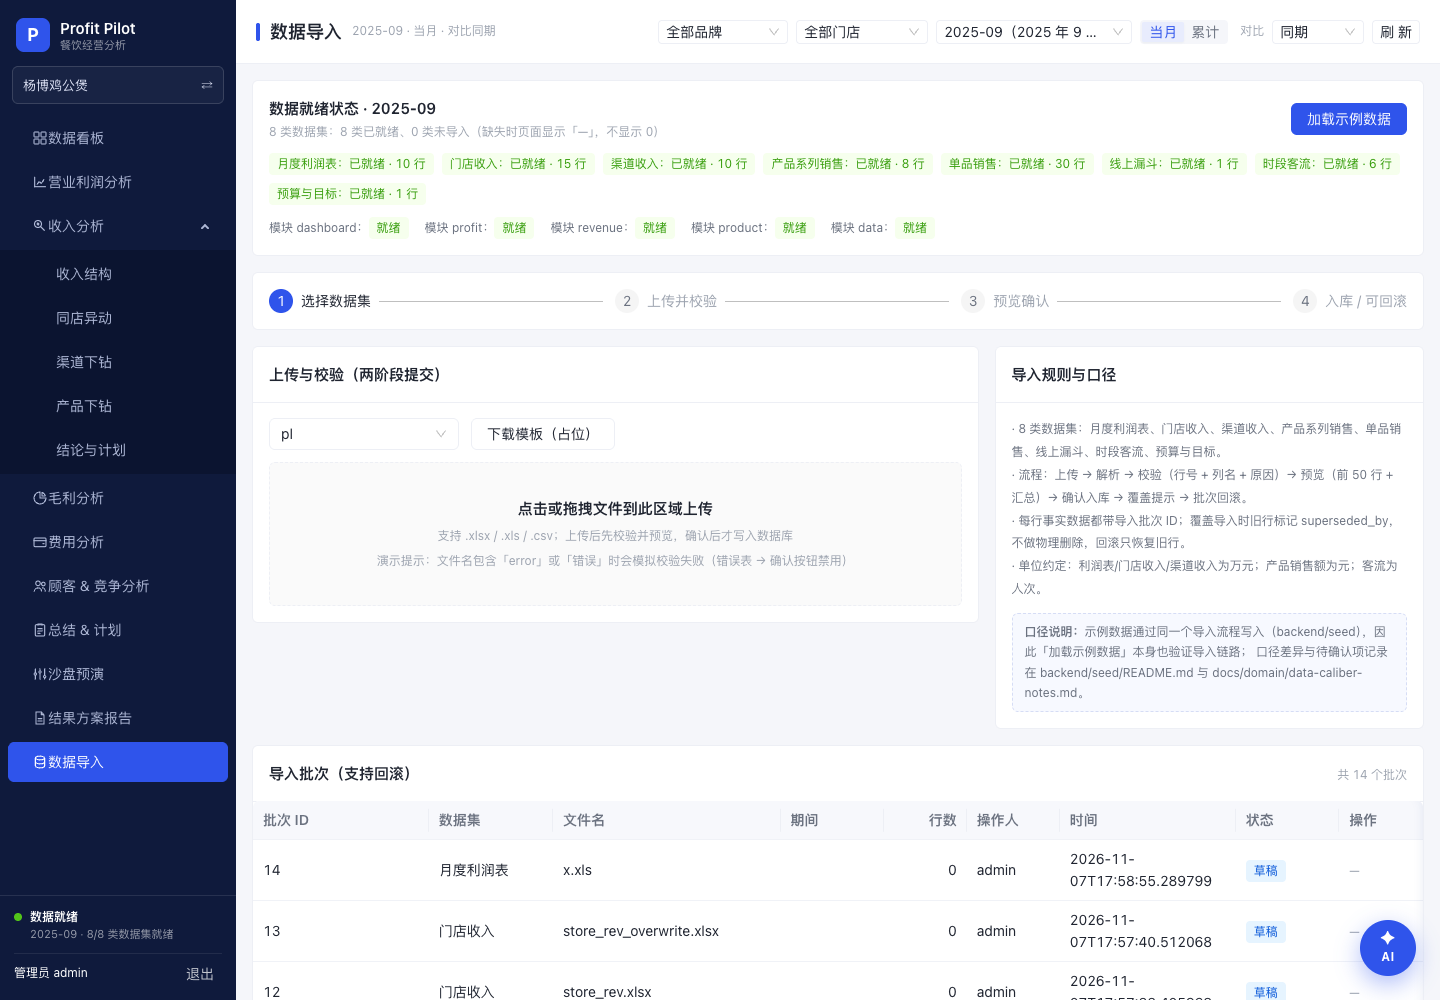
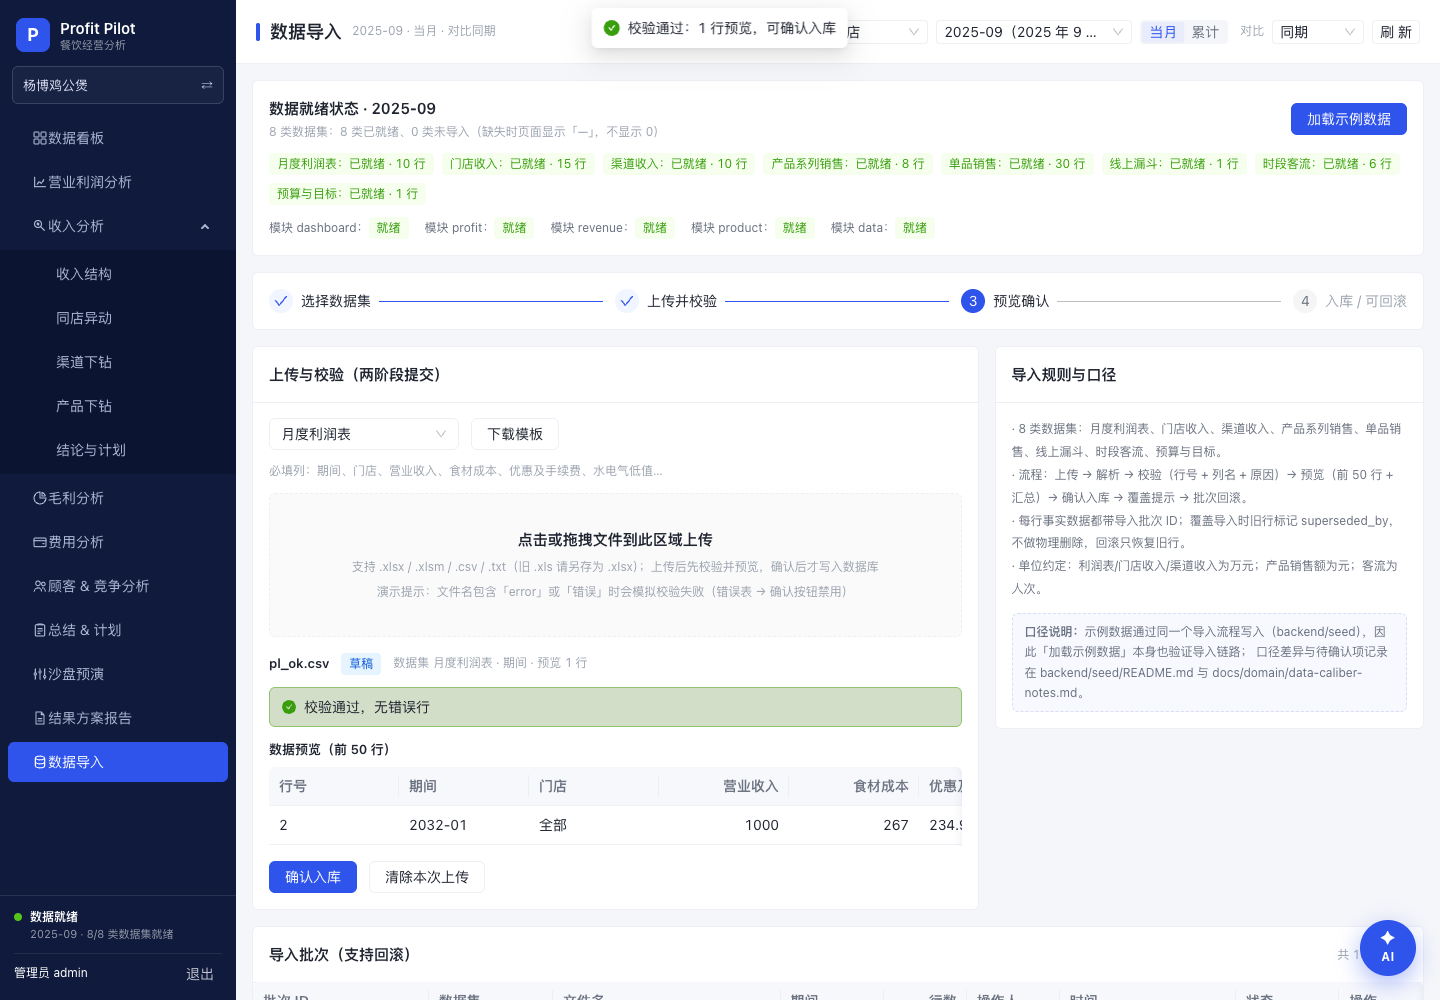
fix: 修复文档核对出的契约、导入与字段缺失问题
- 导入接口统一 {data} 包裹（templates/upload/commit/rollback），前端 hooks 与 mock 对齐；DataPage 数据集默认值改为接口首个 key，real 模式不再卡在 pl
- 数据导入页接通模板下载（fetch+blob，带登录 cookie），上传 accept 收敛为 .xlsx/.xlsm/.csv/.txt
- CSV 解析支持 GBK 回退，非 UTF-8 文件返回 400 而不是 5xx
- 未知 /api/* 统一 404 JSON，不再被 SPA fallback 吞成 200 HTML
- 渠道行补 same_rate；structure/same-store/conclusion 补 caliber_note；渠道详情补 note 别名
- 利润桥返回 base_marginal_contribution_rate，看板/利润页不再写死 41.87%
- 产品套餐为空时前端显示空态（sets 可空）；门店时段主因标题动态化；同店/渠道页去掉写死的 13 店与 857.03/142.97
- 收入页累计口径增加「二期开放」提示（避免当月数据被当成累计）
- 移除未使用的 pandas 依赖；新增 4 项回归测试（61 pytest）
- 同步 shared/api-contract.md 的导入契约

diff --git a/frontend/src/pages/revenue/ProductPage.tsx b/frontend/src/pages/revenue/ProductPage.tsx
@@ -206,14 +206,14 @@ export function ProductPage() {
   ]
   const topNegative = sortedSeries.filter((row) => row.diff < 0)
 
-  const setRows: SetCompareRow[] = [
+  const setRows: SetCompareRow[] = sets ? [
     { key: 'qty', name: '订单量（单）', base: sets.base.qty, current: sets.current.qty, diff: sets.current.qty - sets.base.qty, kind: 'count' },
     { key: 'amount', name: '销售额（元）', base: sets.base.amount, current: sets.current.amount, diff: sets.diff, kind: 'yuan' },
     { key: 'avg_price', name: '实收单价（元）', base: sets.base.avg_price, current: sets.current.avg_price, diff: sets.current.avg_price - sets.base.avg_price, kind: 'yuan' },
     { key: 'dish', name: '菜品收入（元）', base: sets.base.dish_revenue, current: sets.current.dish_revenue, diff: sets.current.dish_revenue - sets.base.dish_revenue, kind: 'yuan' },
     { key: 'discount', name: '菜品优惠（元）', base: sets.base.discount, current: sets.current.discount, diff: sets.current.discount - sets.base.discount, kind: 'yuan' },
     { key: 'discount_rate', name: '优惠率', base: sets.base.discount_rate, current: sets.current.discount_rate, diff: sets.current.discount_rate - sets.base.discount_rate, kind: 'pp' },
-  ]
+  ] : []
 
   return (
     <div className="page-stack">
@@ -318,31 +318,37 @@ export function ProductPage() {
         </Col>
 
         <Col xs={24} xl={13}>
-          <Card
-            title="套餐量价（套餐与单品分开统计）"
-            extra={<Tag color="blue">数据来源：Excel 表 4</Tag>}
-            styles={{ body: { padding: 0 } }}
-          >
-            <DataTable<SetCompareRow> columns={setColumns} rows={setRows} rowKey={(row) => row.key} />
-            <div style={{ padding: 16, borderTop: '1px solid #F0F2F7' }}>
-              <div style={{ display: 'flex', gap: 20, flexWrap: 'wrap', marginBottom: 8 }}>
-                <span>
-                  量差 <b style={{ color: color.positive }}>{formatSignedNumber(sets.qty_impact)}</b> 元
-                </span>
-                <span>
-                  价差 <b style={{ color: color.negative }}>{formatSignedNumber(sets.price_impact)}</b> 元
-                </span>
-                <span>
-                  合计 <b>{formatSignedNumber(sets.diff)}</b> 元
-                </span>
+          {sets ? (
+            <Card
+              title="套餐量价（套餐与单品分开统计）"
+              extra={<Tag color="blue">数据来源：Excel 表 4</Tag>}
+              styles={{ body: { padding: 0 } }}
+            >
+              <DataTable<SetCompareRow> columns={setColumns} rows={setRows} rowKey={(row) => row.key} />
+              <div style={{ padding: 16, borderTop: '1px solid #F0F2F7' }}>
+                <div style={{ display: 'flex', gap: 20, flexWrap: 'wrap', marginBottom: 8 }}>
+                  <span>
+                    量差 <b style={{ color: color.positive }}>{formatSignedNumber(sets.qty_impact)}</b> 元
+                  </span>
+                  <span>
+                    价差 <b style={{ color: color.negative }}>{formatSignedNumber(sets.price_impact)}</b> 元
+                  </span>
+                  <span>
+                    合计 <b>{formatSignedNumber(sets.diff)}</b> 元
+                  </span>
+                </div>
+                <CaliberNote title="口径说明">
+                  套餐量价按 销量 → 单价 连环替代：量差 =（本期订单 − 同期订单）× 同期单价；
+                  价差 =（本期实收单价 − 同期实收单价）× 本期订单。Excel 表 4 与 PPT p27 的套餐数据不同源，
+                  系统按 Excel 表 4 展示（PPT 数字只用于讲解）。套餐优惠率 = 菜品优惠 ÷ 销售额。
+                </CaliberNote>
               </div>
-              <CaliberNote title="口径说明">
-                套餐量价按 销量 → 单价 连环替代：量差 =（本期订单 − 同期订单）× 同期单价；
-                价差 =（本期实收单价 − 同期实收单价）× 本期订单。Excel 表 4 与 PPT p27 的套餐数据不同源，
-                系统按 Excel 表 4 展示（PPT 数字只用于讲解）。套餐优惠率 = 菜品优惠 ÷ 销售额。
-              </CaliberNote>
-            </div>
-          </Card>
+            </Card>
+          ) : (
+            <Card title="套餐量价（套餐与单品分开统计）" styles={{ body: { padding: 16 } }}>
+              <div style={{ color: '#6B7280' }}>本期没有套餐销售数据；导入「单品销售」中的套餐行后展示。</div>
+            </Card>
+          )}
         </Col>
       </Row>
 

diff --git a/frontend/src/pages/data/DataPage.tsx b/frontend/src/pages/data/DataPage.tsx
@@ -13,7 +13,7 @@ import {
   Upload,
 } from 'antd'
 import type { TableColumnsType } from 'antd'
-import { useMemo, useState } from 'react'
+import { useEffect, useMemo, useState } from 'react'
 import {
   useBatches,
   useCommitImport,
@@ -24,6 +24,7 @@ import {
   useUploadImport,
 } from '../../api/hooks'
 import { errorMessage } from '../../api/errors'
+import { apiMode } from '../../api/client'
 import type { ImportBatch, ImportErrorRow, ImportPreviewRow } from '../../api/types'
 import { DataTable } from '../../components/DataTable'
 import { CaliberNote, Footnote } from '../../components/Notes'
@@ -79,7 +80,7 @@ const batchColumns: TableColumnsType<ImportBatch> = [
 export function DataPage() {
   const { filters } = useFilters()
   const { message } = AntApp.useApp()
-  const [dataset, setDataset] = useState('pl')
+  const [dataset, setDataset] = useState('')
   const [draft, setDraft] = useState<ImportBatch | null>(null)
 
   const templatesQuery = useTemplates()
@@ -92,6 +93,11 @@ export function DataPage() {
 
   const templates = templatesQuery.data?.data ?? []
   const currentTemplate = templates.find((item) => item.key === dataset)
+
+  // 数据集 key 以接口返回为准（real/mock 的 key 命名不同，不能写死）
+  useEffect(() => {
+    if (!dataset && templates.length > 0) setDataset(templates[0].key)
+  }, [dataset, templates])
   const batches = batchesQuery.data?.data ?? []
   const status = statusQuery.data?.data
   const datasets = status?.datasets ?? []
@@ -225,13 +231,34 @@ export function DataPage() {
                 placeholder="选择数据集"
               />
               <Button
-                onClick={() =>
-                  message.info(
-                    `模板下载将在后端联调后开放：GET /api/imports/templates/${dataset}.xlsx（表头与中文列名一致）`,
-                  )
-                }
+                disabled={!dataset}
+                onClick={() => {
+                  if (!dataset) return
+                  if (apiMode === 'mock') {
+                    message.info('mock 模式下不下载文件；切到 real 模式或直接用后端地址下载')
+                    return
+                  }
+                  void (async () => {
+                    try {
+                      const response = await fetch(`/api/imports/templates/${dataset}.xlsx`, {
+                        credentials: 'include',
+                      })
+                      if (!response.ok) throw new Error(`HTTP ${response.status}`)
+                      const blob = await response.blob()
+                      const url = URL.createObjectURL(blob)
+                      const link = document.createElement('a')
+                      link.href = url
+                      link.download = `${currentTemplate?.name ?? dataset}.xlsx`
+                      link.click()
+                      URL.revokeObjectURL(url)
+                      message.success('模板已开始下载')
+                    } catch (error) {
+                      message.error(`模板下载失败：${errorMessage(error)}`)
+                    }
+                  })()
+                }}
               >
-                下载模板（占位）
+                下载模板
               </Button>
               {currentTemplate ? (
                 <span style={{ fontSize: 12, color: '#9CA3AF' }}>
@@ -241,7 +268,7 @@ export function DataPage() {
             </div>
 
             <Upload.Dragger
-              accept=".xlsx,.xls,.csv"
+              accept=".xlsx,.xlsm,.csv,.txt"
               showUploadList={false}
               beforeUpload={(file) => {
                 handleUpload(file as File)
@@ -252,7 +279,7 @@ export function DataPage() {
               <div className="upload-drop">
                 <span style={{ fontSize: 15, fontWeight: 600, color: '#1F2430' }}>点击或拖拽文件到此区域上传</span>
                 <span style={{ fontSize: 12, color: '#9CA3AF' }}>
-                  支持 .xlsx / .xls / .csv；上传后先校验并预览，确认后才写入数据库
+                  支持 .xlsx / .xlsm / .csv / .txt（旧 .xls 请另存为 .xlsx）；上传后先校验并预览，确认后才写入数据库
                 </span>
                 <span style={{ fontSize: 12, color: '#9CA3AF' }}>
                   演示提示：文件名包含「error」或「错误」时会模拟校验失败（错误表 → 确认按钮禁用）

diff --git a/frontend/src/api/mock/mock.test.ts b/frontend/src/api/mock/mock.test.ts
@@ -109,11 +109,13 @@ describe('mock 数据 = design.md 第 14 节验收数字', () => {
 
   it('套餐量价：432/66,080/152.96 → 5,472/444,217.54/81.18，量差 +770,933.33、价差 -392,795.79', async () => {
     const res = await mockRequest<ApiEnvelope<ProductData>>('/revenue/product?scope=same_store')
-    expect(res.data.sets.base).toMatchObject({ qty: 432, amount: 66080, avg_price: 152.96 })
-    expect(res.data.sets.current).toMatchObject({ qty: 5472, amount: 444217.54, avg_price: 81.18 })
-    expect(res.data.sets.qty_impact).toBe(770933.33)
-    expect(res.data.sets.price_impact).toBe(-392795.79)
-    expect(res.data.sets.diff).toBe(378137.54)
+    const sets = res.data.sets
+    if (!sets) throw new Error('mock 套餐数据不应为空')
+    expect(sets.base).toMatchObject({ qty: 432, amount: 66080, avg_price: 152.96 })
+    expect(sets.current).toMatchObject({ qty: 5472, amount: 444217.54, avg_price: 81.18 })
+    expect(sets.qty_impact).toBe(770933.33)
+    expect(sets.price_impact).toBe(-392795.79)
+    expect(sets.diff).toBe(378137.54)
     expect(res.data.total.qty_impact).toBe(91.5)
     expect(res.data.total.price_impact).toBe(5.67)
     expect(res.data.series.find((item) => item.name === '肉类')).toMatchObject({

diff --git a/frontend/src/api/types.ts b/frontend/src/api/types.ts
@@ -75,6 +75,7 @@ export interface BridgeItem {
 export interface ProfitBridge {
   start: number
   end: number
+  base_marginal_contribution_rate?: number | null
   items: BridgeItem[]
 }
 
@@ -205,6 +206,7 @@ export interface StoreDetailData {
     diff: number
   }
   dayparts: DaypartRow[]
+  daypart_highlight?: { day_type: string; daypart: string; diff: number } | null
   note: string
 }
 
@@ -230,7 +232,7 @@ export interface ChannelCategory {
 }
 
 export interface ChannelData {
-  total: { current: number; base: number; diff: number }
+  total: { current: number; base: number; diff: number; same_store?: number; new_store?: number }
   rows: ChannelRow[]
   categories: ChannelCategory[]
   caliber_note: string
@@ -325,7 +327,7 @@ export interface ProductData {
     price_impact: number
   }
   series: SeriesRow[]
-  sets: SetMealData
+  sets: SetMealData | null
   conclusion: string
   note: string
 }

diff --git a/frontend/src/pages/revenue/StoreDetailPage.tsx b/frontend/src/pages/revenue/StoreDetailPage.tsx
@@ -229,7 +229,7 @@ export function StoreDetailPage() {
               <Alert
                 type="info"
                 showIcon
-                title="时段判断：工作日 9:00-14:00 与 14:00-24:00 为下降主因"
+                title={`时段判断：${data.daypart_highlight ? `${data.daypart_highlight.day_type} ${data.daypart_highlight.daypart}` : '时段数据不足'} 为下降主因`}
                 description={`工作日合计 ${formatInteger(workdayTotal?.diff ?? null)} 人次（${formatPercent(workdayTotal?.rate ?? null)}），其中午市 ${formatInteger(lunchWorkday?.diff ?? null)}、晚市 ${formatInteger(dinnerWorkday?.diff ?? null)}；节假日 ${formatInteger(holidayTotal?.diff ?? null)} 人次（${formatPercent(holidayTotal?.rate ?? null)}）无法对冲。橙色行为下降贡献最大的时段。`}
                 style={{ marginBottom: 12 }}
               />

diff --git a/frontend/src/layouts/AppLayout.tsx b/frontend/src/layouts/AppLayout.tsx
@@ -1,4 +1,4 @@
-import { Button, Layout, Menu } from 'antd'
+import { Alert, Button, Layout, Menu } from 'antd'
 import type { MenuProps } from 'antd'
 import { useMemo, useState } from 'react'
 import { Outlet, useLocation, useNavigate } from 'react-router-dom'
@@ -175,6 +175,15 @@ export function AppLayout() {
         </Layout.Header>
 
         <Layout.Content className="app-content">
+          {filters.mode === 'ytd' && location.pathname.startsWith('/revenue') ? (
+            <Alert
+              type="warning"
+              showIcon
+              style={{ marginBottom: 12 }}
+              title="收入分析累计口径二期开放"
+              description="当前收入页按当月展示；如需累计请先补齐月度门店/渠道数据，二期开放后再切换。"
+            />
+          ) : null}
           <Outlet />
         </Layout.Content>
       </Layout>

diff --git a/frontend/src/pages/profit/ProfitPage.tsx b/frontend/src/pages/profit/ProfitPage.tsx
@@ -181,7 +181,7 @@ export function ProfitPage() {
         footer={
           <Footnote title="利润桥口径">
             变动成本（食材、优惠及手续费、水电气低值、宣传费用）按「费率差 × 本期收入」计算，固定费用（工资奖金、宿舍房租、店铺房租、其它费用）按「基期 − 本期」计算；
-            收入规模影响 =（本期收入 − 基期收入）× 基期边际贡献率 41.87%；9 项合计 {formatWan(data.profit_bridge.items.reduce((sum, item) => sum + item.impact, 0))} 万元。
+            收入规模影响 =（本期收入 − 基期收入）× 基期边际贡献率 {formatPercent(data.profit_bridge.base_marginal_contribution_rate ?? 0.4187)}；9 项合计 {formatWan(data.profit_bridge.items.reduce((sum, item) => sum + item.impact, 0))} 万元。
           </Footnote>
         }
       >

diff --git a/frontend/src/pages/dashboard/DashboardPage.tsx b/frontend/src/pages/dashboard/DashboardPage.tsx
@@ -152,7 +152,7 @@ export function DashboardPage() {
         footer={
           <Footnote title="利润桥口径">
             基期营业利润 {formatWan(data.profit_bridge.start)} 万元 → 本期 {formatWan(data.profit_bridge.end)} 万元；
-            收入规模影响 =（本期收入 − 基期收入）× 基期边际贡献率 41.87%；变动成本按「费率差 × 本期收入」、固定费用按「基期 − 本期」计算；
+            收入规模影响 =（本期收入 − 基期收入）× 基期边际贡献率 {formatPercent(data.profit_bridge.base_marginal_contribution_rate ?? 0.4187)}；变动成本按「费率差 × 本期收入」、固定费用按「基期 − 本期」计算；
             9 项影响合计 {formatWan(data.profit_bridge.items.reduce((sum, item) => sum + item.impact, 0))} 万元。
           </Footnote>
         }

diff --git a/frontend/src/pages/pages.smoke.test.tsx b/frontend/src/pages/pages.smoke.test.tsx
@@ -130,7 +130,7 @@ describe('页面冒烟：真实渲染 mock 数据', () => {
   it('数据导入：数据集、模板占位、批次列表；错误文件时确认按钮禁用', async () => {
     renderPage(<DataPage />)
     await expectText('加载示例数据')
-    await expectText('下载模板（占位）')
+    await expectText('下载模板')
     await expectText('上传与校验（两阶段提交）')
     await expectText('导入批次（支持回滚）')
     expect(screen.queryByText('确认入库')).not.toBeInTheDocument()

diff --git a/frontend/src/pages/revenue/ChannelPage.tsx b/frontend/src/pages/revenue/ChannelPage.tsx
@@ -224,7 +224,7 @@ export function ChannelPage() {
           footer={
             <>
               <span>
-                同店合计 <b>857.03</b> 万元 · 新店分摊 <b>142.97</b> 万元
+                同店合计 <b>{formatWan(total.same_store ?? null)}</b> 万元 · 新店分摊 <b>{formatWan(total.new_store ?? null)}</b> 万元
               </span>
               <span style={{ color: '#9CA3AF' }}>同店 + 新店 = 渠道本期收入（分项取整尾差 ≤ 0.02）</span>
             </>

diff --git a/frontend/src/pages/revenue/SameStorePage.tsx b/frontend/src/pages/revenue/SameStorePage.tsx
@@ -221,7 +221,7 @@ export function SameStorePage() {
           footer={
             <>
               <span>
-                13 店合计 <b>{formatWan(summary.current)}</b> 万元
+                {data.stores.length} 店合计 <b>{formatWan(summary.current)}</b> 万元
               </span>
               <span style={{ color: '#6B7280' }}>
                 客流影响 {formatWan(summary.traffic_impact)} · 客单影响 {formatWan(summary.ticket_impact)}

diff --git a/backend/app/services/analysis.py b/backend/app/services/analysis.py
@@ -479,6 +479,15 @@ def overview(session: Session, period: str, baseline: str = "yoy", store: str = 
         bridge = {
             "start": r2(bridge_result["start"]),
             "end": r2(bridge_result["end"]),
+            "base_marginal_contribution_rate": (
+                r4(
+                    1
+                    - sum(base.get(name, 0.0) for name in ("食材成本", "优惠及手续费", "水电气低值", "宣传费用"))
+                    / base.get("营业收入", 0.0)
+                )
+                if base.get("营业收入")
+                else None
+            ),
             "items": [
                 {
                     "key": item["key"],
@@ -652,6 +661,15 @@ def profit(session: Session, period: str, baseline: str = "yoy", store: str = "a
         bridge = {
             "start": r2(result["start"]),
             "end": r2(result["end"]),
+            "base_marginal_contribution_rate": (
+                r4(
+                    1
+                    - sum(base.get(name, 0.0) for name in ("食材成本", "优惠及手续费", "水电气低值", "宣传费用"))
+                    / base.get("营业收入", 0.0)
+                )
+                if base.get("营业收入")
+                else None
+            ),
             "items": [
                 {"key": item["key"], "name": item["name"], "impact": r2(item["impact"]), "kind": item["kind"], "note": item["note"]}
                 for item in result["items"]
@@ -785,7 +803,11 @@ def revenue_structure(session: Session, period: str, dimension: str, baseline: s
     insights = insight_rules.finalize(
         insight_rules.structure_insights(result, DIMENSIONS[dimension]), settings.top_n
     )
-    data = {**result, "dataset_note": dataset_note}
+    data = {
+        **result,
+        "dataset_note": dataset_note,
+        "caliber_note": f"{dataset_note}；6 个维度的分项之和均等于该口径总收入，四套收入合计口径见页脚。",
+    }
     if dimension == "store_type":
         data["dimension_note"] = "该维度为在营门店类型（同店/新店/闭店）；门店档案的 MALL/社区街边/写字楼/交通枢纽 店型字段暂未作为结构维度。"
     return {
@@ -843,6 +865,7 @@ def revenue_same_store(session: Session, period: str, baseline: str = "yoy", bra
             for row in new
             if row["has_current"]
         ],
+        "caliber_note": "门店口径：同店 13 家 + 新店 2 家，收入合计 1000.23 / 759.95 万元；客流×客单拆解按逐店计算后汇总，0.12 万尾差来自源表取整。",
     }
     insights = insight_rules.finalize(
         insight_rules.same_store_insights(summary_out) + insight_rules.store_anomaly_insights(store_items),
@@ -968,6 +991,7 @@ def revenue_channel(session: Session, period: str, baseline: str = "yoy", brand:
                 "new_store": r2(new_display),
                 "diff": r2(row["diff"]),
                 "rate": r4(row["rate"]),
+                "same_rate": r4((same_display - row["base"]) / row["base"]) if row["base"] else None,
                 "share": r4(row["current"] / channel_total_current) if channel_total_current else None,
             }
         )
@@ -1067,6 +1091,7 @@ def revenue_channel_detail(session: Session, period: str, channel_id: int, basel
             else None
         ),
         "funnel_note": None if funnel_data else "示例数据只导入了美团大众（点评）漏斗；其他渠道漏斗待导入",
+        "note": None if funnel_data else "示例数据只导入了美团大众（点评）漏斗；其他渠道漏斗待导入",
     }
     return {
         "data": data,
@@ -1282,6 +1307,7 @@ def revenue_conclusion(session: Session, period: str, baseline: str = "yoy", bra
         "summary": summary,
         "conclusions": conclusions,
         "actions": ACTIONS,
+        "caliber_note": "异动汇总使用门店口径（1000.23 / 759.95 万元）；四项合计与收入变动的 0.13 万差异为源表取整尾差，页面不强行对齐。",
     }
     return {
         "data": data,
